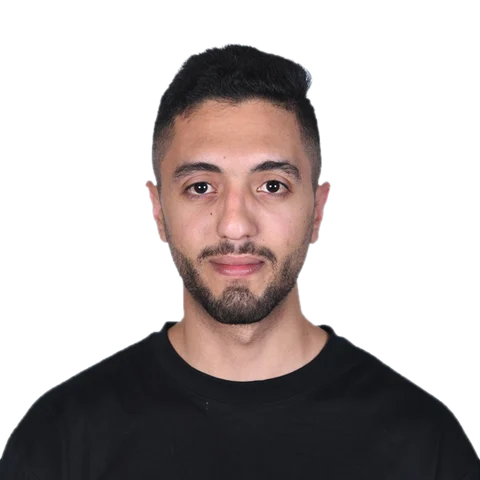
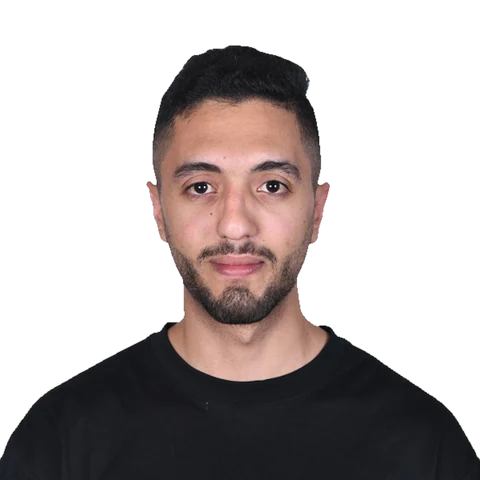
Clean portrait cut-out and clearer FrontServe pricing metric
Redo the About portrait with an AI background remover (rembg,
BiRefNet-portrait) and remove the white fringe from the hair edges, so
there's no halo on the dark theme.

Replace the hero's "0 prices set by the model" metric with "100% of prices
and totals come from the store's own menu, never from the AI", which reads
clearly without knowing the architecture.

diff --git a/src/data/portfolio.ts b/src/data/portfolio.ts
@@ -14,7 +14,11 @@ export const portfolio: PortfolioData = {
   impact: [
     { value: "ar + en", label: "orders in Arabic, English or a mix of both" },
     { value: "2", label: "model calls per turn: understand, then reply" },
-    { value: "0", label: "prices set by the model; code sets every number" },
+    {
+      value: "100%",
+      label:
+        "of prices and totals come from the store's own menu, never from the AI",
+    },
     { value: "5+", label: "years building enterprise SaaS on .NET and Azure" },
   ],
   lede: "I build software that real businesses run on: an AI order-taker for counters in Jordan, and a 24/7 security platform for 40 customer tenants.",

diff --git a/docs/ROADMAP.md b/docs/ROADMAP.md
@@ -32,7 +32,7 @@ A living backlog for enhancing and modernizing the portfolio. Mark items `[x]` w
 - [x] `featured` replaced by `caseStudy` (projects rendered as full case files) and `draft` (not rendered).
 - [x] FrontServe AI (Mahdi's AI order-taker, in development) added as a second case file with website and demo links, and the Stack's third column now reflects it.
 - [ ] Decision notes on the diagram: the node `note`s state facts only. Adding the reasons behind key choices (gRPC, the Cosmos DB graph, Service Bus) would make the explorer much stronger.
-- [ ] Professional portrait cut-out: `public/profile-cutout.webp` is an automatic flood-fill mask with a slight halo around the hair.
+- [x] Portrait cut-out redone with an AI model (rembg, BiRefNet-portrait) plus white-fringe removal, so the hair edge is clean on the dark theme.
 - [x] Manual light/dark toggle (navbar and command menu), saved to `localStorage` and applied before paint by an inline script.
 - [x] Command menu (Ctrl/⌘ K): sections, copy email, résumé, theme, LinkedIn, GitHub.
 - [ ] Contact form (Server Action + Resend/email service), or a "book a call" link.
